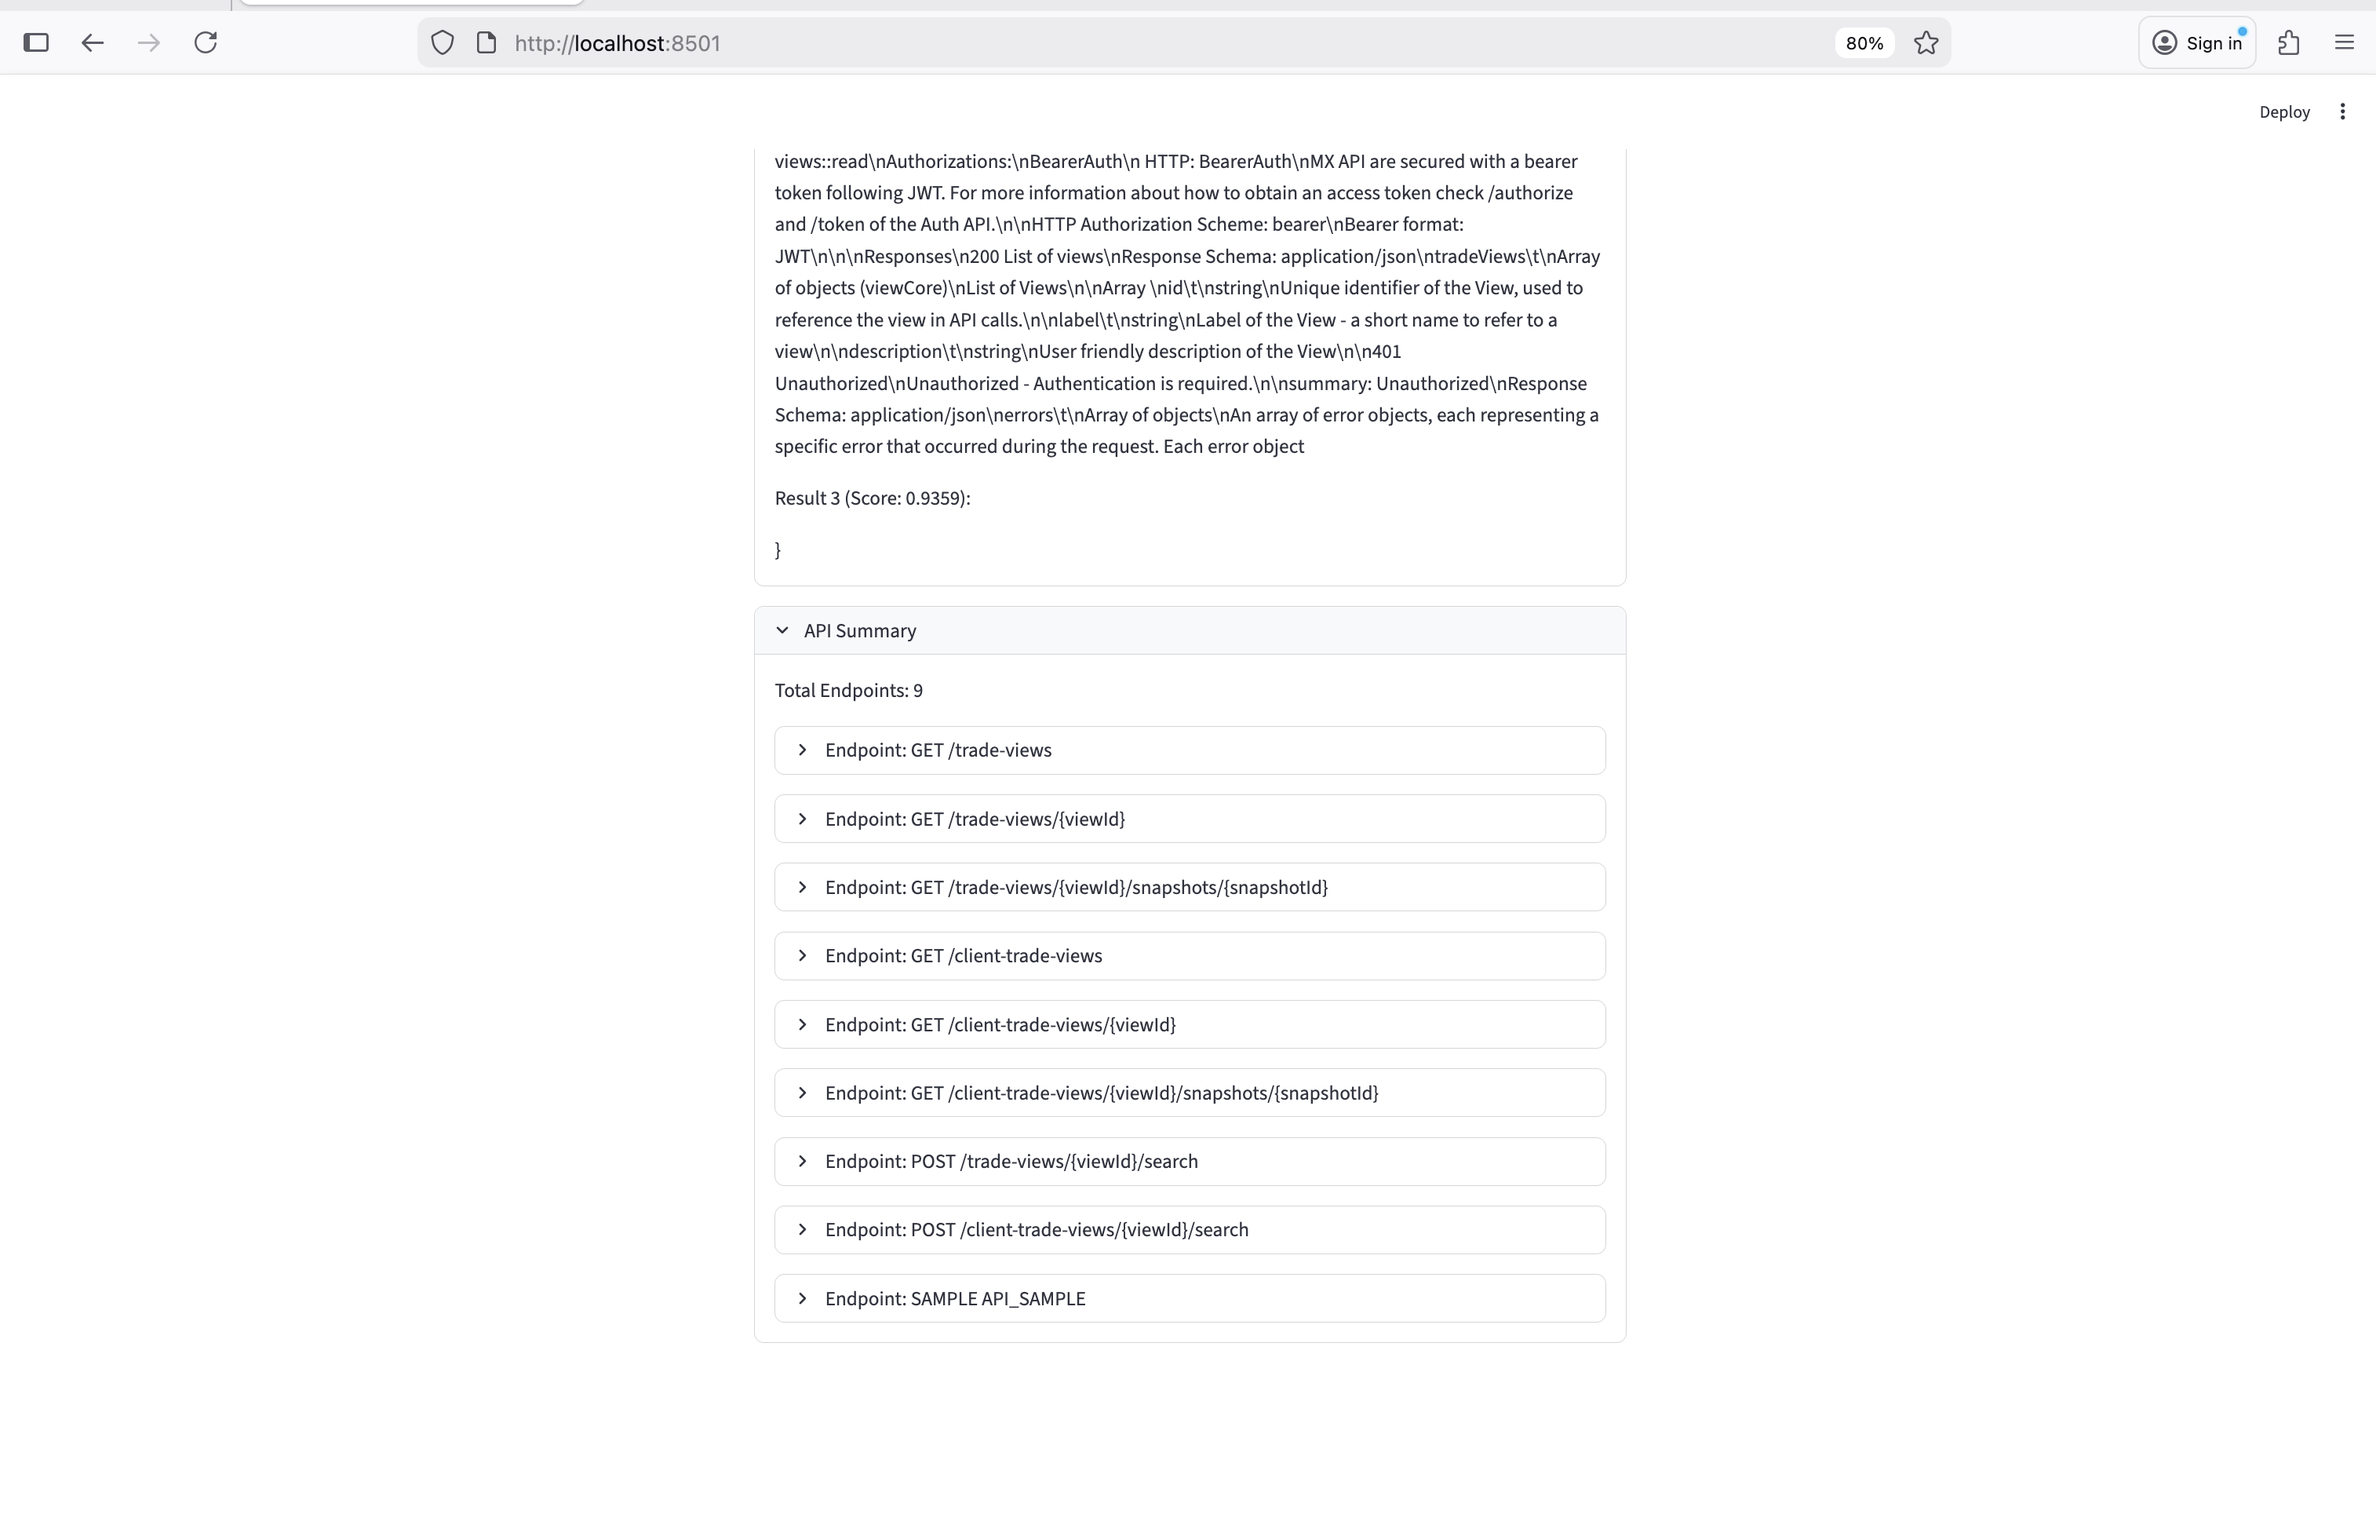
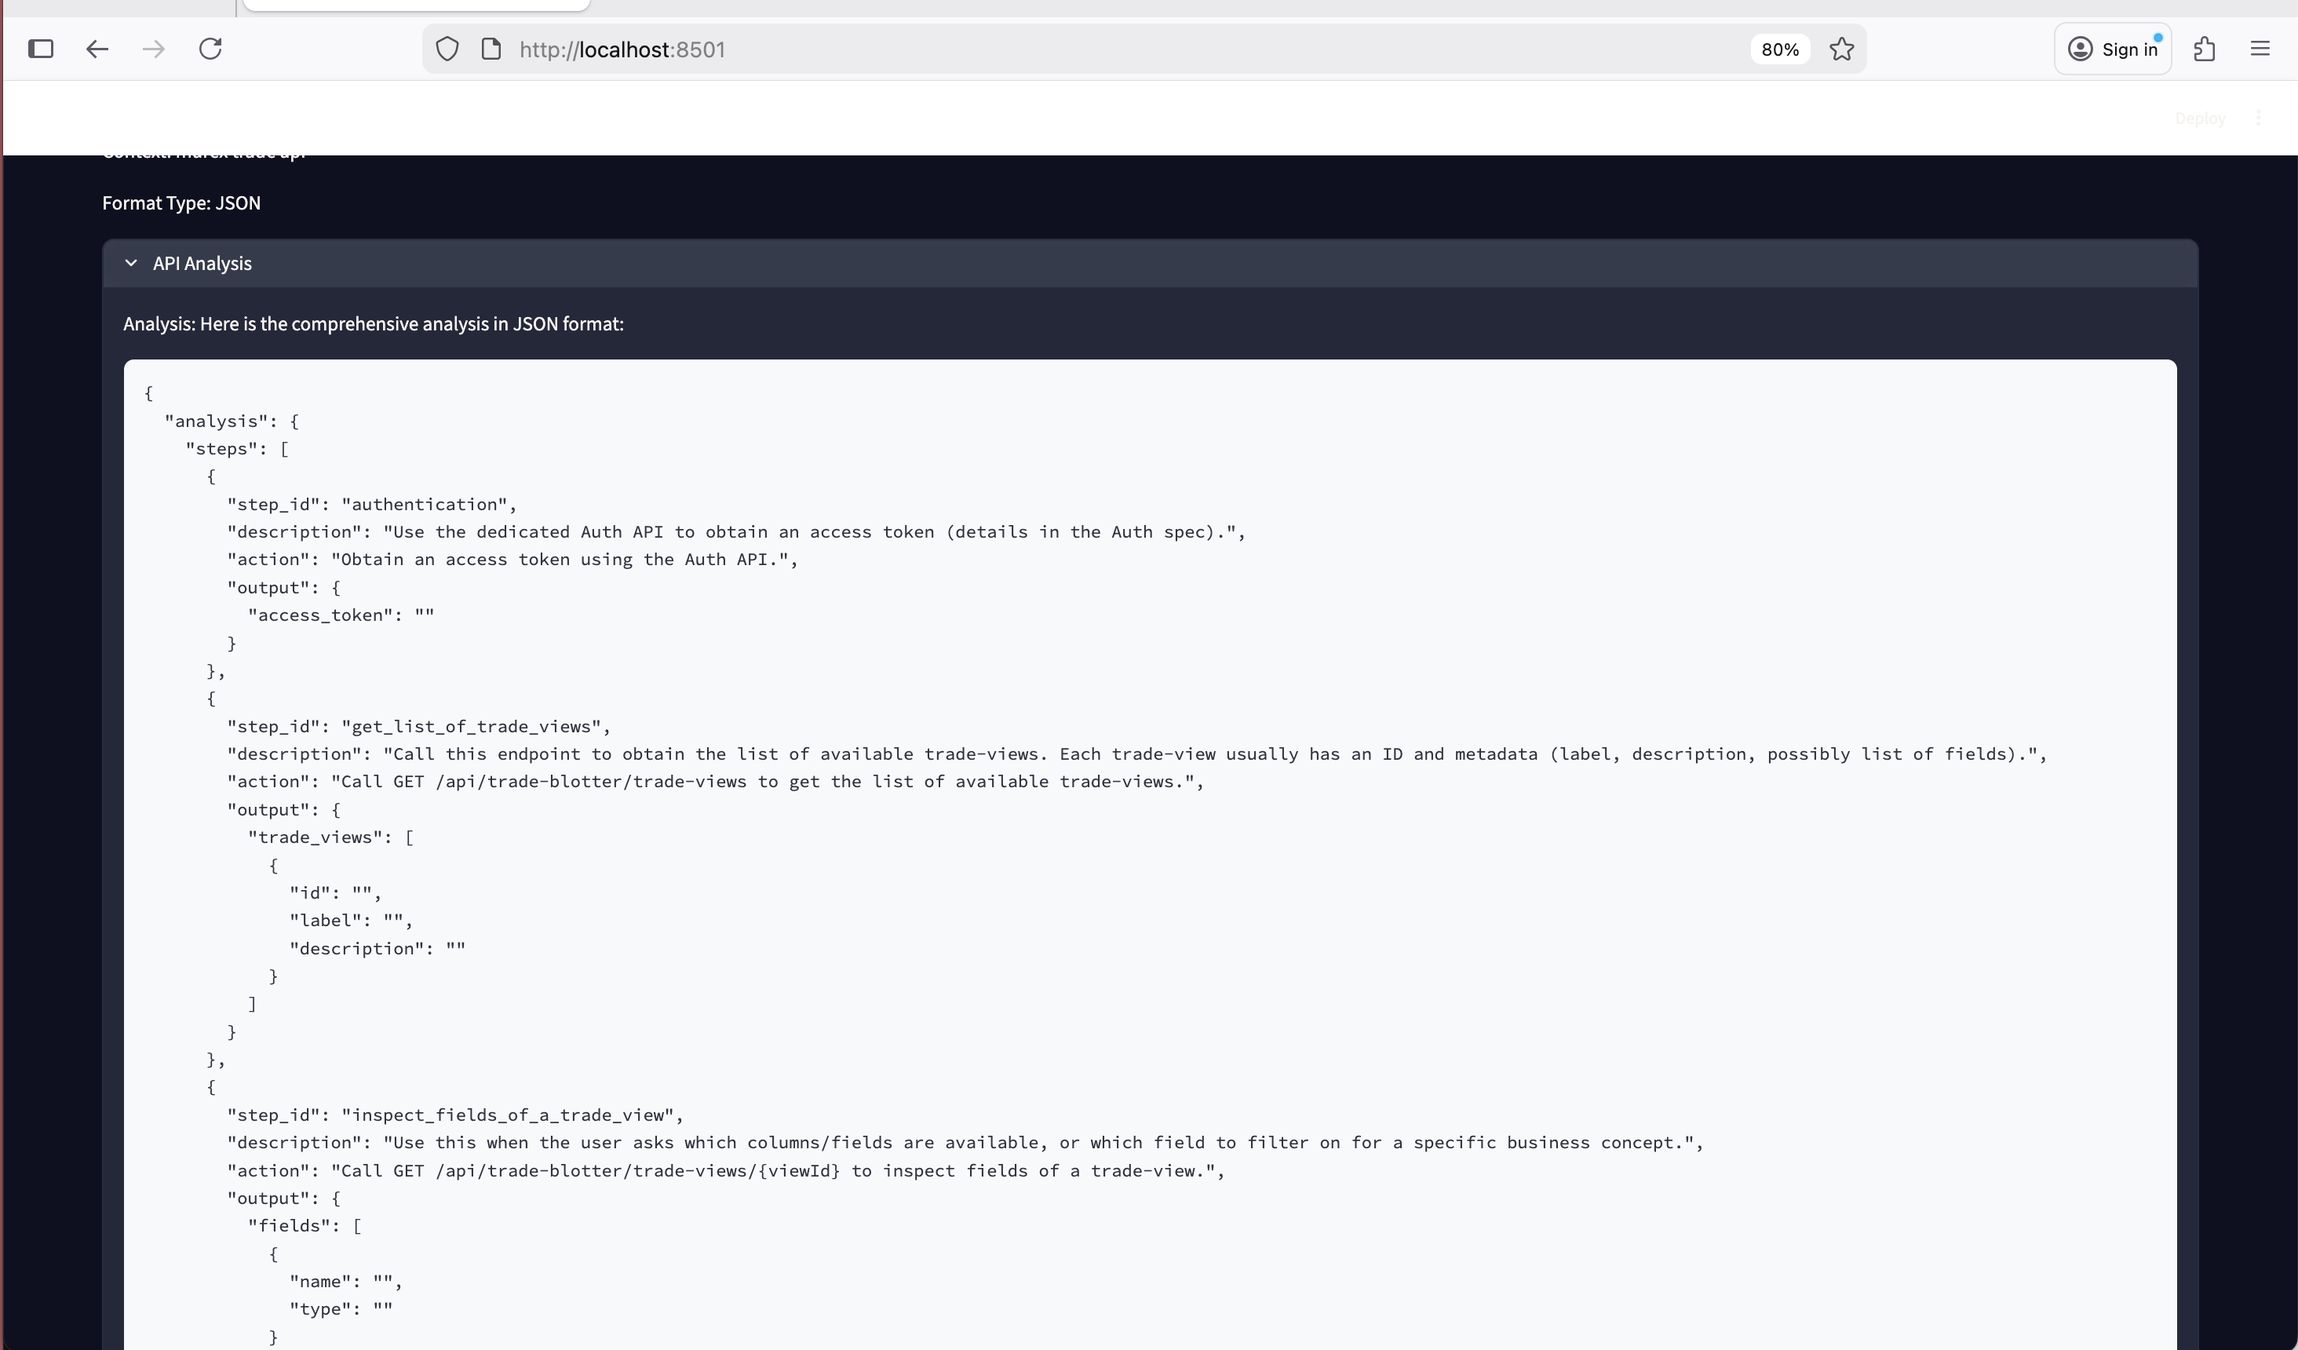
json payload clean in RealTime Portfolio app with Prims Mock Execution

diff --git a/src/api_realtime-portfolio_rag/datamap/realtime_portfolio_schema_analyzer.py b/src/api_realtime-portfolio_rag/datamap/realtime_portfolio_schema_analyzer.py
@@ -323,7 +323,7 @@ def create_streamlit_app():
                     st.write(analysis["analysis"])
                 
                 # API call in context tab
-                with st.expander("API Call in Context"):
+                with st.expander("API steps in Context"):
                     api_call = st.session_state.analyzer.get_detailed_api_call_in_context(query, context, format_type)
                     st.write("API Call:")
                     st.write(api_call)
@@ -353,18 +353,65 @@ def create_streamlit_app():
                     else:
                         st.warning("No token loaded. Initialize the analyzer to fetch one.")
 
-                    analysis_payload = _parse_prism_payload(analysis["analysis"])
-                    if not analysis_payload:
-                        st.info("Analysis response is not JSON; cannot extract steps.")
+                    api_call_payload = _parse_prism_payload(api_call.get("api_call"))
+                    if not api_call_payload:
+                        st.info("API call payload is not JSON; cannot extract steps.")
                     else:
-                        analysis_block = analysis_payload.get("analysis") or {}
-                        steps = analysis_block.get("execution_steps") or analysis_payload.get("execution_steps") or []
-                        api_calls = analysis_payload.get("api_calls") or []
+                        if isinstance(api_call_payload, list):
+                            steps = api_call_payload
+                            api_calls = []
+                            for step in steps:
+                                request_info = step.get("request") or {}
+                                endpoint = request_info.get("endpoint") or ""
+                                api_calls.append(
+                                    {
+                                        "step": step.get("description")
+                                        or step.get("action")
+                                        or f"Step {step.get('step', '')}".strip(),
+                                        "request": {
+                                            "method": request_info.get("method") or "GET",
+                                            "url": endpoint,
+                                            "headers": request_info.get("headers") or {},
+                                            "body": request_info.get("body"),
+                                        },
+                                    }
+                                )
+                        else:
+                            steps = api_call_payload.get("steps") or []
+                            api_calls = api_call_payload.get("api_calls") or []
+                            if steps and not api_calls:
+                                for step in steps:
+                                    action = (step.get("action") or "").strip()
+                                    method = "GET"
+                                    url = ""
+                                    if action:
+                                        parts = action.split(" ", 1)
+                                        if len(parts) == 2:
+                                            method = parts[0].upper()
+                                            url = parts[1].strip()
+                                        else:
+                                            url = action
+                                    api_calls.append(
+                                        {
+                                            "step": step.get("description")
+                                            or f"Step {step.get('step_id', '')}".strip(),
+                                            "request": {
+                                                "method": method,
+                                                "url": url,
+                                                "headers": step.get("headers") or {},
+                                                "body": step.get("request_body"),
+                                            },
+                                        }
+                                    )
 
                         if steps:
                             st.write("Execution Steps:")
                             for step in steps:
-                                st.write(f"- {step}")
+                                if isinstance(step, dict):
+                                    label = step.get("description") or step.get("action") or str(step)
+                                    st.write(f"- {label}")
+                                else:
+                                    st.write(f"- {step}")
 
                         if api_calls and st.button("Run Steps with Prism Mock"):
                             if not current_token:

diff --git a/src/api_realtime-portfolio_llama_local_rag/datamap/realtime_portfolio_schema_analyzer.py b/src/api_realtime-portfolio_llama_local_rag/datamap/realtime_portfolio_schema_analyzer.py
@@ -311,7 +311,7 @@ def create_streamlit_app():
                     st.write(analysis["analysis"])
                 
                 # API call in context tab
-                with st.expander("API Call in Context"):
+                with st.expander("API Steps in Context"):
                     api_call = st.session_state.analyzer.get_detailed_api_call_in_context(query, context, format_type)
                     st.write("API Call:")
                     st.write(api_call)
@@ -341,13 +341,36 @@ def create_streamlit_app():
                     else:
                         st.warning("No token loaded. Initialize the analyzer to fetch one.")
 
-                    analysis_payload = _parse_prism_payload(analysis["analysis"])
-                    if not analysis_payload:
-                        st.info("Analysis response is not JSON; cannot extract steps.")
+                    api_call_payload = _parse_prism_payload(api_call.get("api_call"))
+                    if not api_call_payload:
+                        st.info("API call payload is not JSON; cannot extract steps.")
                     else:
-                        analysis_block = analysis_payload.get("analysis") or {}
-                        steps = analysis_block.get("execution_steps") or analysis_payload.get("execution_steps") or []
-                        api_calls = analysis_payload.get("api_calls") or []
+                        steps = api_call_payload.get("steps") or []
+                        api_calls = api_call_payload.get("api_calls") or []
+                        if steps and not api_calls:
+                            for step in steps:
+                                action = (step.get("action") or "").strip()
+                                method = "GET"
+                                url = ""
+                                if action:
+                                    parts = action.split(" ", 1)
+                                    if len(parts) == 2:
+                                        method = parts[0].upper()
+                                        url = parts[1].strip()
+                                    else:
+                                        url = action
+                                api_calls.append(
+                                    {
+                                        "step": step.get("description")
+                                        or f"Step {step.get('step_id', '')}".strip(),
+                                        "request": {
+                                            "method": method,
+                                            "url": url,
+                                            "headers": step.get("headers") or {},
+                                            "body": step.get("request_body"),
+                                        },
+                                    }
+                                )
 
                         if steps:
                             st.write("Execution Steps:")
